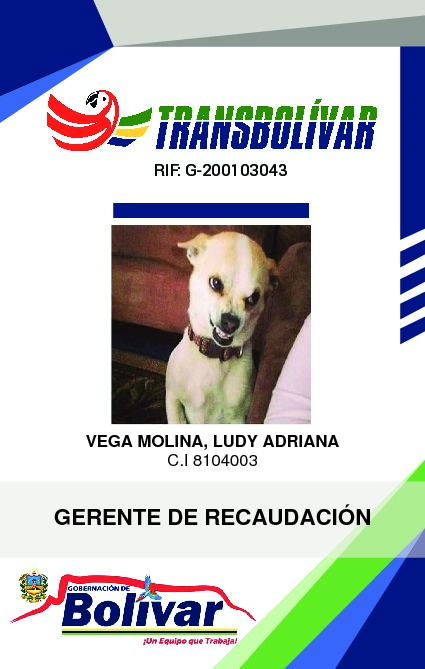
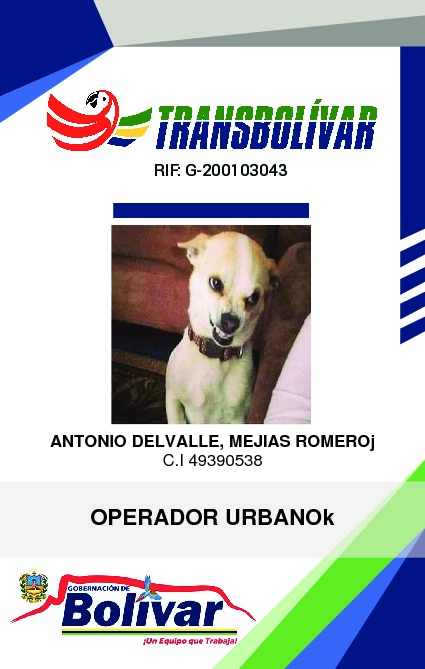
sistema finalizado

Changed region(s): [[0.1224, 0.6278, 0.8871, 0.7175], [0.1224, 0.7474, 0.8871, 0.8072]]

diff --git a/templates/empleados/generar_carnet.html b/templates/empleados/generar_carnet.html
@@ -8,15 +8,15 @@
                 {%csrf_token%}
                 <div class="form-group">
                     <label for="cedula">Cedula</label>
-                    <input type="text" class="form-control" id="cedula" placeholder="Cedula" value="{{cedula}}">
+                    <input type="text" name="cedula" class="form-control" id="cedula" placeholder="Cedula" value="{{cedula}}">
                 </div>
                 <div class="form-group">
                     <label for="nombre">Nombres y apellidos</label>
-                    <input type="text" class="form-control" id="nombre" placeholder="Nombres y apellidos" value="{{nombres}}">
+                    <input type="text" name="nombres" class="form-control" id="nombre" placeholder="Nombres y apellidos" value="{{nombres}}">
                 </div>
                 <div class="form-group">
                     <label for="cargo">Cargo</label>
-                    <input type="text" class="form-control" id="cargo" placeholder="Cargo"  value="{{cargo}}">
+                    <input type="text" name="cargo" class="form-control" id="cargo" placeholder="Cargo"  value="{{cargo}}">
                 </div>
                 <button type="submit" class="btn btn-primary">Actualizar</button>
             </form>

diff --git a/apps/empleados/views.py b/apps/empleados/views.py
@@ -1,6 +1,7 @@
 import os
 import io
 import qrcode
+import json
 from django.shortcuts import render
 from django.templatetags.static import static
 from PyPDF2 import PdfFileWriter, PdfFileReader, PdfFileMerger
@@ -36,6 +37,7 @@ def generar_carnet(request, id):
         result = namedtuplefetchall(cursor)
         contexto = {'cedula':result[0].cedula, 'nombres':result[0].nombres, 'cargo': result[0].cargo}
         cargos_operaciones = ['OPERADOR URBANO','OPERADOR INTERURBANO','OPERADOR INTERURBANO I', 'OPERADOR INSTRUCTOR', 'SUPERVISOR DE OPERACIONES','JEFE DEL CENTRO DE CONTROL DE OPERACIONES','AUXILIAR DE FLOTA']
+        
         # Generar imagen JPG desde el PDF creado
         url_diseno_carnet_admin = os.path.join(settings.BASE_DIR, 'static/files/carnet_admin.pdf')
         url_diseno_carnet_oper = os.path.join(settings.BASE_DIR, 'static/files/carnet_oper.pdf')
@@ -171,21 +173,28 @@ def pdf_to_jpg(pdf_path = None,  output_path = None, resolution = 200, name_file
                 image.save(filename = image_name)
 
 def renderizar(request):
-
-    cedula = request.POST['cedula']
-    nombres = request.POST['nombres']
-    cargo = request.POST['cargo']
     
 
+    cedula = request.POST.get('cedula',False)
+    nombres = request.POST.get('nombres',False)
+    cargo = request.POST.get('cargo',False)
+    
+    cargos_operaciones = ['OPERADOR URBANO','OPERADOR INTERURBANO','OPERADOR INTERURBANO I', 'OPERADOR INSTRUCTOR', 'SUPERVISOR DE OPERACIONES','JEFE DEL CENTRO DE CONTROL DE OPERACIONES','AUXILIAR DE FLOTA']
+        
     # Generar imagen JPG desde el PDF creado
-    url_diseno_carnet = os.path.join(settings.BASE_DIR, 'static/files/carnet_admin.pdf')
-    url_carnet = os.path.join(settings.BASE_DIR, 'static/files/carnets/'+cedula+'-0.pdf')
+    url_diseno_carnet_admin = os.path.join(settings.BASE_DIR, 'static/files/carnet_admin.pdf')
+    url_diseno_carnet_oper = os.path.join(settings.BASE_DIR, 'static/files/carnet_oper.pdf')
+    url_carnet = os.path.join(settings.BASE_DIR, 'static/files/tmp/'+cedula+'-0.pdf')
+    url_carnet_final = os.path.join(settings.BASE_DIR, 'static/files/carnets/')
     url_output = os.path.join(settings.BASE_DIR, 'static/files/')
 
     packet = io.BytesIO()
     can = canvas.Canvas(packet, pagesize=(153,240))
        
-    foto_carnet = os.path.join(settings.BASE_DIR, 'static/files/qrimg/foto_carnet.png')
+    foto_carnet = os.path.join(settings.BASE_DIR, 'static/img/foto_carnet.png')
+    if os.path.exists(os.path.join(settings.BASE_DIR, 'static/img/'+cedula+'.jpeg')):
+        foto_carnet = os.path.join(settings.BASE_DIR, 'static/img/'+cedula+'.jpeg')
+        
     can.drawImage(foto_carnet, 40, 88, width=72, height=72, mask=None)
 
     can.setFont("Helvetica-Bold", 6)
@@ -212,22 +221,33 @@ def renderizar(request):
 
     new_pdf = PdfFileReader(packet)
 
-    # read your existing PDF
-    existing_pdf = PdfFileReader(open(url_diseno_carnet, "rb"))
+    existing_pdf = PdfFileReader(open(url_diseno_carnet_admin, "rb"))
+    if cargo in cargos_operaciones:
+        existing_pdf = PdfFileReader(open(url_diseno_carnet_oper, "rb"))
+        
     output = PdfFileWriter()
     page = existing_pdf.getPage(0)
     page.mergePage(new_pdf.getPage(0))
     output.addPage(page)
 
-        # finally, write "output" to a real file
+    # finally, write "output" to a real file
     outputStream = open(url_carnet, "wb")
     output.write(outputStream)
     outputStream.close()
 
-    generar_carnet_cara2(cedula)
-    pdf_to_jpg(url_carnet,url_output,200,'cara_1')    
-    contexto = {'cedula':cedula, 'nombres':nombres, 'cargo': cargo}    
-    return render(request, 'empleados/generar_carnet.html', contexto)
+    url_carnet_cara2 = generar_carnet_cara2(cedula)
+
+    merger = PdfFileMerger()
+        
+    merger.append(PdfFileReader(open(url_carnet, 'rb')))
+    merger.append(PdfFileReader(open(url_carnet_cara2, 'rb')))
+
+    merger.write(url_carnet_final+cedula+'.pdf')
+
+    pdf_to_jpg(url_carnet,url_output,200,'cara_1')
+
+    contexto = {'cedula':cedula, 'nombres':nombres, 'cargo': cargo}
+    return render(request, 'empleados/generar_carnet.html', contexto)    
 
 
 def imprimir(request, cedula):
